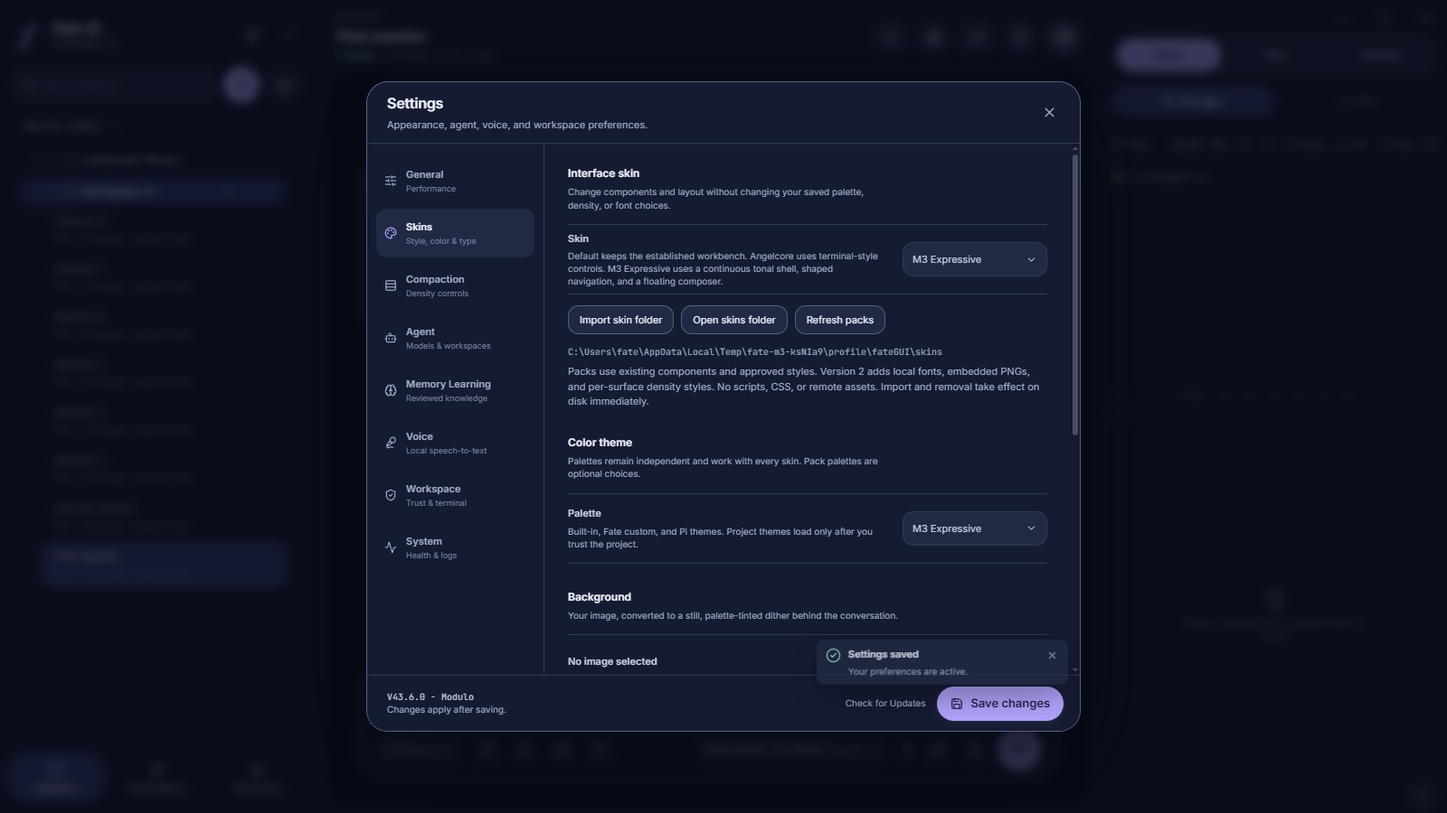
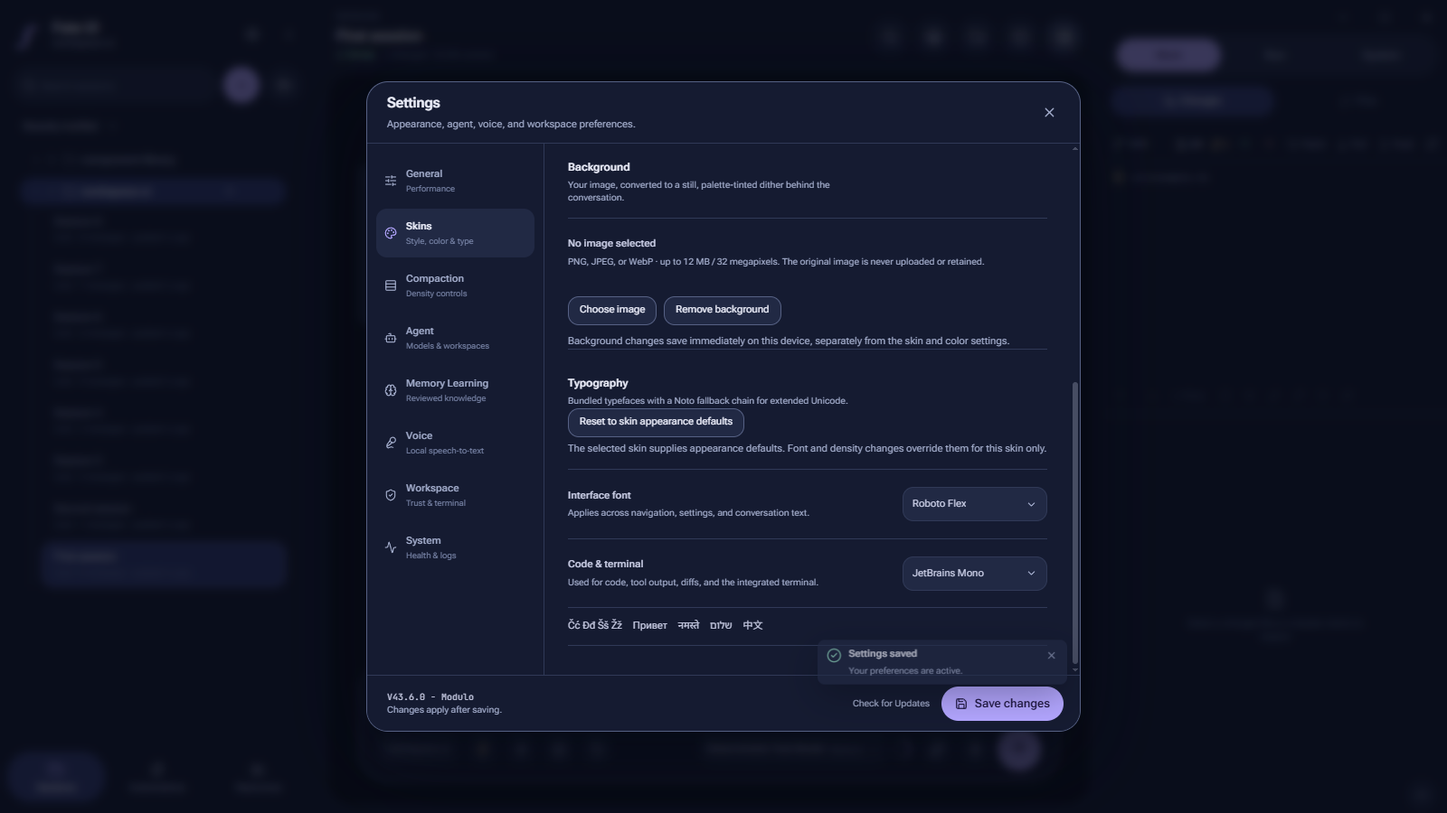
Bundle Roboto Flex and verify skin font imports

diff --git a/tests/e2e/angelcore-complete.spec.ts b/tests/e2e/angelcore-complete.spec.ts
@@ -6,6 +6,7 @@ import { createServer } from 'node:http';
 import { tmpdir } from 'node:os';
 import path from 'node:path';
 import { appSettingsSchema } from '../../src/shared/contracts/ipc';
+import { expectLoadedFontFace } from './fontAssertions';
 
 const exec = promisify(execFile);
 async function fixture() {
@@ -264,6 +265,8 @@ test('v2 pack fonts, embedded image, density styles and user font overrides surv
   test.setTimeout(120_000);
   const data = await fixture();
   const pack = path.join(data.directory, 'font-pack'); await mkdir(pack);
+  const builtinPack = path.join(data.directory, 'builtin-font-pack'); await mkdir(builtinPack);
+  await writeFile(path.join(builtinPack, 'skin.json'), JSON.stringify({ schemaVersion: 2, id: 'builtin-flex', name: 'Builtin Flex', description: 'A built-in font reference without embedded font files.', version: '1.0.0', base: 'default', appearance: { interfaceFont: 'roboto-flex' } }));
   await cp(path.resolve('node_modules/@fontsource-variable/jetbrains-mono/files/jetbrains-mono-latin-wght-normal.woff2'), path.join(pack, 'mono.woff2'));
   const image = await readFile(path.resolve('examples/skins/ashen-terminal/background.png'));
   await writeFile(path.join(pack, 'skin.json'), JSON.stringify({ schemaVersion: 2, id: 'font-studio', name: 'Font Studio', description: 'An embedded-asset fixture', version: '2.0.0', base: 'dreamcore', fonts: [{ id: 'mono', name: 'Studio Mono', file: 'mono.woff2', monospace: true }], appearance: { interfaceFont: 'local:mono', codeFont: 'local:mono', compactMode: true, compactSessions: true }, styles: { normal: { music: { controlRadius: 4 }, tooltips: { surfaceRadius: 4 }, browser: { controlRadius: 6, fontSize: 14 } }, compact: { music: { controlRadius: 1 }, browser: { controlRadius: 2 } }, compactSessions: { sidebar: { controlRadius: 3, rowHeight: 28 } } }, background: { data: image.toString('base64'), opacity: 0.1 } }));
@@ -273,11 +276,18 @@ test('v2 pack fonts, embedded image, density styles and user font overrides surv
     await app.evaluate(({ dialog }, selected) => { dialog.showOpenDialog = async () => ({ canceled: false, filePaths: [selected] }); }, pack);
     let dialog = await settings(page);
     await expect(dialog.getByRole('combobox', { name: 'Interface font' })).toContainText('JetBrains Mono');
+    await expectLoadedFontFace(page, 'JetBrains Mono Variable');
+    await app.evaluate(({ dialog }, selected) => { dialog.showOpenDialog = async () => ({ canceled: false, filePaths: [selected] }); }, builtinPack);
+    await dialog.getByRole('button', { name: 'Import skin folder' }).click();
+    await dialog.getByRole('button', { name: 'Preview Builtin Flex' }).click();
+    await expect(dialog.getByRole('combobox', { name: 'Interface font' })).toContainText('Roboto Flex');
+    await expectLoadedFontFace(page, 'Roboto Flex Variable');
+    await app.evaluate(({ dialog }, selected) => { dialog.showOpenDialog = async () => ({ canceled: false, filePaths: [selected] }); }, pack);
     await dialog.getByRole('button', { name: 'Import skin folder' }).click();
     await dialog.getByRole('button', { name: 'Preview Font Studio' }).click();
     await expect(dialog.getByRole('combobox', { name: 'Interface font' })).toContainText('Studio Mono');
     await expect(dialog.getByRole('combobox', { name: 'Code and terminal font' })).toContainText('Studio Mono');
-    await expect.poll(() => page.evaluate(() => [...document.fonts].some((font) => font.family.includes('FateSkin_skin_font_font_studio_mono') && font.status === 'loaded'))).toBe(true);
+    await expectLoadedFontFace(page, 'FateSkin_skin_font_font_studio_mono');
     await expect(page.locator('.workspace-backdrop')).toHaveAttribute('data-source', 'skin-pack');
     await expect.poll(() => page.evaluate(() => document.documentElement.dataset.compactMode)).toBe('true');
     await expect.poll(() => page.evaluate(() => document.documentElement.style.getPropertyValue('--skin-music-control-radius'))).toBe('1px');
@@ -289,6 +299,12 @@ test('v2 pack fonts, embedded image, density styles and user font overrides surv
     await expect(dialog.getByRole('combobox', { name: 'Interface font' })).toContainText('Poppins');
     await expect.poll(() => page.locator('.composer textarea').evaluate((element) => getComputedStyle(element).fontFamily)).toContain('Poppins');
     expect(await page.evaluate(() => document.documentElement.style.getPropertyValue('--font-code'))).toContain('FateSkin_skin_font_font_studio_mono');
+    await dialog.getByRole('combobox', { name: 'Interface font' }).click();
+    await page.getByRole('option', { name: /^Studio Mono/u }).click();
+    await expectLoadedFontFace(page, 'FateSkin_skin_font_font_studio_mono');
+    await expect(dialog.getByRole('combobox', { name: 'Interface font' })).toContainText('Studio Mono');
+    await dialog.getByRole('combobox', { name: 'Interface font' }).click();
+    await page.getByRole('option', { name: /^Poppins/u }).click();
     await dialog.getByRole('button', { name: 'Save changes' }).click();
     await expect(dialog.getByRole('status')).toContainText('Settings saved');
     await dialog.screenshot({ path: 'test-results/skin-fonts-v2.png', animations: 'disabled' });
@@ -301,9 +317,12 @@ test('v2 pack fonts, embedded image, density styles and user font overrides surv
     dialog = await settings(restored);
     await expect(dialog.getByRole('combobox', { name: 'Interface font' })).toContainText('Poppins');
     await expect(dialog.getByRole('combobox', { name: 'Code and terminal font' })).toContainText('Studio Mono');
+    await expectLoadedFontFace(restored, 'FateSkin_skin_font_font_studio_mono');
+    await expectLoadedFontFace(restored, 'Poppins');
     await expect.poll(() => dialog.evaluate((element) => getComputedStyle(element).fontFamily)).toContain('Poppins');
     await dialog.getByRole('button', { name: 'Reset to skin appearance defaults' }).click();
     await expect(dialog.getByRole('combobox', { name: 'Interface font' })).toContainText('Studio Mono');
+    await expectLoadedFontFace(restored, 'FateSkin_skin_font_font_studio_mono');
     await dialog.getByRole('button', { name: 'Save changes' }).click();
     await dialog.getByRole('button', { name: 'Close settings' }).click();
     await restored.getByRole('button', { name: 'Collapse sidebar' }).hover();

diff --git a/tests/e2e/m3-expressive.spec.ts b/tests/e2e/m3-expressive.spec.ts
@@ -4,6 +4,7 @@ import { execFile } from 'node:child_process';
 import { promisify } from 'node:util';
 import { appSettingsSchema } from '../../src/shared/contracts/ipc';
 import { builtInThemes, themeDefinitionSchema, type ThemeDefinition } from '../../src/shared/themes';
+import { expectLoadedFontFace } from './fontAssertions';
 
 const exec = promisify(execFile);
 const midnight = builtInThemes.find((theme) => theme.id === 'midnight')!;
@@ -28,7 +29,7 @@ async function paletteCompliance(page: Page, theme: ThemeDefinition) {
       font: root.dataset.interfaceFont, codeFont: root.dataset.codeFont, compact: root.dataset.compactMode, reduceMotion: root.dataset.reduceMotion,
       composerRadius: style('.composer').borderRadius,
     };
-  })).toEqual({ skin: 'm3-expressive', theme: theme.id, tone: theme.tone, panel: rgb(theme.colors.panel), canvas: rgb(theme.colors.canvas), primary: rgb(theme.colors.accent), onPrimary: rgb(theme.colors.onAccent), send: rgb(theme.colors.accent), onSend: rgb(theme.colors.onAccent), text: rgb(theme.colors.text), font: 'inter', codeFont: 'jetbrains-mono', compact: 'false', reduceMotion: 'false', composerRadius: '36px' });
+  })).toEqual({ skin: 'm3-expressive', theme: theme.id, tone: theme.tone, panel: rgb(theme.colors.panel), canvas: rgb(theme.colors.canvas), primary: rgb(theme.colors.accent), onPrimary: rgb(theme.colors.onAccent), send: rgb(theme.colors.accent), onSend: rgb(theme.colors.onAccent), text: rgb(theme.colors.text), font: 'roboto-flex', codeFont: 'jetbrains-mono', compact: 'false', reduceMotion: 'false', composerRadius: '36px' });
 }
 import { tmpdir } from 'node:os';
 import path from 'node:path';
@@ -161,6 +162,10 @@ test('M3 Expressive independent preview, save, compact layout and restart', asyn
   try {
     app = await launch();
     const page = await app.firstWindow();
+    const remoteFontRequests: string[] = [];
+    page.on('request', (request) => {
+      if (request.resourceType() === 'font' && /^https?:/u.test(request.url())) remoteFontRequests.push(request.url());
+    });
     await expect(page.getByLabel('Window controls')).toHaveAttribute('data-bridge-status', 'ready');
     const chromeRadius = await page.locator('.window-control').first().evaluate((element) => getComputedStyle(element).borderRadius);
     await app.evaluate(({ BrowserWindow }) => BrowserWindow.getAllWindows()[0]!.setSize(1600, 900));
@@ -187,6 +192,7 @@ test('M3 Expressive independent preview, save, compact layout and restart', asyn
     await page.getByRole('option', { name: /M3 Expressive/u }).click();
     await expect(palette).toHaveText(originalTheme);
     await expect(page.locator('html')).toHaveAttribute('data-skin', 'm3-expressive');
+    await expectLoadedFontFace(page, 'Roboto Flex Variable');
     await settings.getByRole('button', { name: 'Close settings' }).click();
     await expect(page.locator('html')).toHaveAttribute('data-skin', 'default');
     await expect(page.getByLabel('Message Pi')).toHaveValue('Draft retained across appearance changes');
@@ -196,6 +202,19 @@ test('M3 Expressive independent preview, save, compact layout and restart', asyn
     await page.getByRole('option', { name: /M3 Expressive/u }).click();
     await palette.click();
     await page.getByRole('option', { name: /M3 Expressive/u }).click();
+    const interfaceFont = settings.getByRole('combobox', { name: 'Interface font' });
+    await expect(interfaceFont).toContainText('Roboto Flex');
+    await expectLoadedFontFace(page, 'Roboto Flex Variable');
+    await expect(page.locator('.composer textarea')).toHaveCSS('font-optical-sizing', 'auto');
+    await expectLoadedFontFace(page, 'JetBrains Mono Variable');
+    await interfaceFont.click();
+    await page.getByRole('option', { name: /^Inter/u }).click();
+    await expectLoadedFontFace(page, 'Inter Variable');
+    await expect(page.locator('html')).toHaveAttribute('data-interface-font', 'inter');
+    await expect(page.locator('html')).toHaveAttribute('data-code-font', 'jetbrains-mono');
+    await settings.getByRole('button', { name: 'Reset to skin appearance defaults' }).click();
+    await expect(interfaceFont).toContainText('Roboto Flex');
+    await expectLoadedFontFace(page, 'Roboto Flex Variable');
     await settings.getByRole('button', { name: 'Save changes' }).click();
     await page.screenshot({ path: 'screenshots/m3-expressive/settings.png' });
     await settings.getByRole('button', { name: 'Close settings' }).click();
@@ -323,6 +342,9 @@ test('M3 Expressive independent preview, save, compact layout and restart', asyn
     await expect(restarted.locator('html')).toHaveAttribute('data-skin', 'm3-expressive');
     await expect(restarted.locator('html')).toHaveAttribute('data-theme', 'm3-expressive');
     await expect(restarted.locator('html')).toHaveAttribute('data-compact-mode', 'true');
+    await expect(restarted.locator('html')).toHaveAttribute('data-interface-font', 'roboto-flex');
+    await expectLoadedFontFace(restarted, 'Roboto Flex Variable');
+    expect(remoteFontRequests).toEqual([]);
   } finally {
     await app?.close();
     await rm(directory, { recursive: true, force: true });

diff --git a/src/shared/skinAppearance.test.ts b/src/shared/skinAppearance.test.ts
@@ -7,11 +7,11 @@ const baseline = () => appSettingsSchema.parse({ appearance: 'dark', defaultMode
 describe('effective skin appearance', () => {
   it('round-trips M3 font and density overrides without changing palette or other skins', () => {
     const settings = { ...baseline(), skinId: 'm3-expressive' as const, themeId: 'daylight' };
-    expect(resolveSkinAppearance(settings, builtInSkins)).toMatchObject({ interfaceFont: 'inter', themeId: 'daylight' });
+    expect(resolveSkinAppearance(settings, builtInSkins)).toMatchObject({ interfaceFont: 'roboto-flex', themeId: 'daylight' });
     const saved = appSettingsSchema.parse(overrideSkinAppearance(settings, { interfaceFont: 'noto-sans', compactMode: true, reduceMotion: true }));
     expect(resolveSkinAppearance(saved, builtInSkins)).toMatchObject({ interfaceFont: 'noto-sans', compactMode: true, reduceMotion: true, themeId: 'daylight', codeFont: settings.codeFont });
     expect(resolveSkinAppearance({ ...saved, skinId: 'dreamcore' }, builtInSkins)).toMatchObject({ interfaceFont: 'jetbrains-mono', compactMode: false });
-    expect(resolveSkinAppearance(resetSkinAppearance(saved), builtInSkins).interfaceFont).toBe('inter');
+    expect(resolveSkinAppearance(resetSkinAppearance(saved), builtInSkins).interfaceFont).toBe('roboto-flex');
   });
   it('shows Angelcore defaults without losing base preferences and honors explicit per-skin overrides', () => {
     const settings = baseline();
@@ -21,6 +21,11 @@ describe('effective skin appearance', () => {
     expect(resolveSkinAppearance(overridden, builtInSkins)).toMatchObject({ interfaceFont: 'inter', compactMode: true });
     expect(resolveSkinAppearance({ ...overridden, skinId: 'default' }, builtInSkins).interfaceFont).toBe('poppins');
     expect(resolveSkinAppearance(resetSkinAppearance(overridden), builtInSkins).interfaceFont).toBe('jetbrains-mono');
+  });
+  it('accepts Roboto Flex as a v2 pack appearance default without an embedded font', () => {
+    const pack = skinPackManifestSchema.parse({ schemaVersion: 2, id: 'flex-pack', name: 'Flex Pack', version: '1.0.0', description: 'Bundled font reference.', base: 'default', appearance: { interfaceFont: 'roboto-flex' } });
+    expect(pack.appearance?.interfaceFont).toBe('roboto-flex');
+    expect(pack.fonts).toBeUndefined();
   });
   it('inherits component-base defaults and falls back when an imported font disappears', () => {
     const pack: SkinDefinition = { id: 'pack:font-pack', name: 'Font pack', description: 'Fixture', base: 'dreamcore', origin: 'pack', appearance: { codeFont: 'skin-font:font-pack:mono' } };

diff --git a/src/renderer/fonts.ts b/src/renderer/fonts.ts
@@ -10,6 +10,7 @@ const interfaceFamilies: Record<BuiltInInterfaceFont, string> = {
   'noto-sans': notoSansFallback,
   system: `ui-sans-serif, system-ui, -apple-system, BlinkMacSystemFont, "Segoe UI", ${notoSansFallback}`,
   inter: `"Inter Variable", ${notoSansFallback}`,
+  'roboto-flex': `"Roboto Flex Variable", "Roboto", ${notoSansFallback}`,
   poppins: `"Poppins", ${notoSansFallback}`,
   montserrat: `"Montserrat Variable", ${notoSansFallback}`,
   'jetbrains-mono': `"JetBrains Mono Variable", ${notoCodeFallback}`,
@@ -23,6 +24,8 @@ const codeFamilies: Record<BuiltInCodeFont, string> = {
 
 const optionalInterfaceFontLoaders: Partial<Record<BuiltInInterfaceFont, () => Promise<unknown>>> = {
   inter: () => import('@fontsource-variable/inter/wght.css'),
+  // Weight + optical-size axes, normal style; no remote font requests.
+  'roboto-flex': () => import('@fontsource-variable/roboto-flex/opsz.css'),
   montserrat: () => import('@fontsource-variable/montserrat/wght.css'),
   poppins: () => import('./styles/poppins.css'),
 };
@@ -45,6 +48,7 @@ export const interfaceFontOptions: ReadonlyArray<{ value: InterfaceFont; label: 
   { value: 'noto-sans', label: 'Noto Sans', detail: 'Global default · extended Unicode' },
   { value: 'system', label: 'System UI', detail: 'Native platform font · Noto fallback' },
   { value: 'inter', label: 'Inter', detail: 'Neutral and highly legible' },
+  { value: 'roboto-flex', label: 'Roboto Flex', detail: 'Material expressive option · variable optical sizing' },
   { value: 'poppins', label: 'Poppins', detail: 'Geometric and friendly' },
   { value: 'montserrat', label: 'Montserrat', detail: 'Structured and distinctive' },
   { value: 'jetbrains-mono', label: 'JetBrains Mono', detail: 'Technical monospace interface' },

diff --git a/src/shared/skins.ts b/src/shared/skins.ts
@@ -87,7 +87,7 @@ export const skinExportResultSchema = z.object({ path: z.string().max(4096) }).s
 export const builtInSkins: readonly SkinDefinition[] = [
   { id: 'default', base: 'default', origin: 'built-in', name: 'Default', description: 'The focused, continuous Fate UI workbench.' },
   { id: 'dreamcore', base: 'dreamcore', origin: 'built-in', name: 'Angelcore', description: 'Terminal-style controls, command input, and an open transcript.', appearance: { interfaceFont: 'jetbrains-mono' }, styles: { normal: { sidebar: { padding: 14 }, settings: { padding: 18 }, music: { padding: 12 }, tooltips: { padding: 8 } }, compact: { sidebar: { padding: 8 }, settings: { padding: 12 }, music: { padding: 8 } } } },
-  { id: 'm3-expressive', base: 'm3-expressive', origin: 'built-in', name: 'M3 Expressive', description: 'A continuous tonal workspace, expressive shapes, and focused controls.', appearance: { interfaceFont: 'inter' } },
+  { id: 'm3-expressive', base: 'm3-expressive', origin: 'built-in', name: 'M3 Expressive', description: 'A continuous tonal workspace, expressive shapes, and focused controls.', appearance: { interfaceFont: 'roboto-flex' } },
 ];
 export function builtInSkinName(id: BuiltInSkinId): string { return builtInSkins.find((skin) => skin.id === id)!.name; }
 export function resolveSkinId(value: unknown): SkinId { return skinIdSchema.parse(value); }

diff --git a/src/renderer/fonts.test.ts b/src/renderer/fonts.test.ts
@@ -1,5 +1,5 @@
 import { afterEach, beforeEach, describe, expect, it, vi } from 'vitest';
-import { applyFonts } from './fonts';
+import { applyFonts, interfaceFontOptions } from './fonts';
 
 beforeEach(() => {
   delete document.documentElement.dataset.interfaceFont;
@@ -13,6 +13,13 @@ afterEach(() => {
 });
 
 describe('applyFonts', () => {
+  it('offers Roboto Flex with local Roboto/Noto fallbacks while retaining the code font', () => {
+    expect(interfaceFontOptions).toContainEqual(expect.objectContaining({ value: 'roboto-flex', label: 'Roboto Flex' }));
+    applyFonts('roboto-flex', 'jetbrains-mono');
+    expect(document.documentElement.dataset.interfaceFont).toBe('roboto-flex');
+    expect(document.documentElement.style.getPropertyValue('--font-interface')).toMatch(/^"Roboto Flex Variable", "Roboto", "Noto Sans Variable"/u);
+    expect(document.documentElement.dataset.codeFont).toBe('jetbrains-mono');
+  });
   it('avoids repeat style writes and font-change events', () => {
     const styleWrite = vi.spyOn(CSSStyleDeclaration.prototype, 'setProperty');
     const listener = vi.fn();

diff --git a/src/shared/skinFonts.ts b/src/shared/skinFonts.ts
@@ -1,7 +1,7 @@
 import { z } from 'zod';
 
 export const MAX_SKIN_FONT_BYTES = 256 * 1024;
-export const builtInInterfaceFontSchema = z.enum(['noto-sans', 'system', 'inter', 'poppins', 'montserrat', 'jetbrains-mono']);
+export const builtInInterfaceFontSchema = z.enum(['noto-sans', 'system', 'inter', 'roboto-flex', 'poppins', 'montserrat', 'jetbrains-mono']);
 export const builtInCodeFontSchema = z.enum(['jetbrains-mono', 'noto-sans-mono', 'system-mono']);
 export type BuiltInInterfaceFont = z.infer<typeof builtInInterfaceFontSchema>;
 export type BuiltInCodeFont = z.infer<typeof builtInCodeFontSchema>;

diff --git a/tests/e2e/fontAssertions.ts b/tests/e2e/fontAssertions.ts
@@ -1,0 +1,9 @@
+import { expect, type Page } from '@playwright/test';
+
+/** A CSS fallback stack or fonts.check() for an unknown family is not load evidence. */
+export async function expectLoadedFontFace(page: Page, family: string): Promise<void> {
+  await expect.poll(() => page.evaluate(async (expected) => {
+    await document.fonts.ready;
+    return [...document.fonts].some((face) => face.family.replace(/["']/gu, '') === expected && face.status === 'loaded');
+  }, family)).toBe(true);
+}

diff --git a/docs/m3-expressive.md b/docs/m3-expressive.md
@@ -4,7 +4,7 @@
 
 In **Settings → Skins**, select **M3 Expressive** under **Skin**. For the reference's navy/indigo and lavender colors, separately select **M3 Expressive** under **Palette**. Save changes to keep them; closing without saving restores the previous selection. Neither selector changes the other.
 
-Inter is the skin's bundled interface-font default. Code font, density, motion preferences, and your per-skin font overrides remain independent. Pane widths remain user-resizable and are not reset when changing skin. Personal dithered backgrounds remain optional, visible only inside the conversation inset.
+Roboto Flex is the skin's bundled interface-font default. Code font, density, motion preferences, and your per-skin font overrides remain independent. Pane widths remain user-resizable and are not reset when changing skin. Personal dithered backgrounds remain optional, visible only inside the conversation inset.
 
 ## Design decisions
 
@@ -17,11 +17,19 @@ Inter is the skin's bundled interface-font default. Code font, density, motion p
 - The conversation fill sits below the existing dither layer; the content above remains transparent. There is no skin-specific image or external resource request.
 - Native window buttons are not Material controls. Their platform order, shape, drag exclusions, and reserved areas are unchanged. The native window remains opaque and resizable. This is the user's explicitly accepted **joined-pane fallback**, not native transparency or a CSS transparency claim. Electron 43.6.0 documents that transparent windows are not reliably resizable and Windows system-menu/double-click maximize is unavailable; `transparent` is a construction option, not a runtime appearance toggle. Introducing those constraints globally would affect other skins. No native window options were changed.
 
+## Bundled typography
+
+Material's baseline default remains Roboto; **Roboto Flex** is its variable expressive option, not a Google brand-font requirement. Fate bundles unmodified `@fontsource-variable/roboto-flex` 5.3.0 locally under SIL OFL 1.1. The normal `opsz.css` entry retains variable weight (100–1000) and optical sizing (8–144); Chromium's automatic optical sizing follows the actual text size. No stylistic axis animation or new layout treatment is introduced.
+
+The fallback stack is Roboto Flex → locally available Roboto → the already bundled Noto families/system sans. No CDN or remote font request is used. The picker exposes **Roboto Flex** for every skin; M3 uses it as a default only, so a saved per-skin font override still wins. Code font is separate. Angelcore retains its already bundled JetBrains Mono. Copyright attribution and the full OFL accompany releases in [`FONT_LICENSES.md`](../FONT_LICENSES.md).
+
+Version-2 pack creators can refer to `roboto-flex` as a built-in appearance default, or supply their own declared WOFF/WOFF2 with `local:` references. No new font-import UI or relaxed security limits are needed; see [skin pack fonts](skins.md#bundled-fonts-and-defaults). Electron tests verify actual loaded `FontFace` entries—not just CSS stacks—for Roboto Flex, Angelcore's JetBrains Mono, and a namespaced imported font, including picker selection, default reset, and restart.
+
 ## Boundaries
 
 Both skin and palette use ID `m3-expressive`, in separate registries. Default and Angelcore keep their existing styles and component implementations. Version 1/2 pack manifests still allow only `default` and `dreamcore` component bases; M3 does not expand executable or declarative pack capabilities. Three built-ins do not consume any of the sixteen pack slots. Appearance override validation and prepaint storage recognize the new built-in.
 
-No new dependency, font download, arbitrary CSS import, script execution, or privileged renderer API was introduced. Existing focus treatment, reduced-motion settings, and OS reduced-motion handling remain in effect; this skin adds no animations.
+The only added production dependency is the locally bundled Roboto Flex font package. No runtime font download, arbitrary CSS import, script execution, or privileged renderer API was introduced. Existing focus treatment, reduced-motion settings, and OS reduced-motion handling remain in effect; this skin adds no animations.
 
 ## Theme compliance
 
@@ -50,8 +58,8 @@ Gallery under [`screenshots/m3-expressive/`](../screenshots/m3-expressive/):
 
 Verified in the isolated implementation checkout on Windows:
 
-- `pnpm verify`: passed typecheck, 194 unit files (2,049 passed / 3 skipped), production and E2E builds, and all 18 Electron journeys.
-- After the final joined-shell fallback (retaining agent icon slots and compact search), `pnpm typecheck`, `pnpm build:e2e` (including the renderer build), and `pnpm exec playwright test tests/e2e/m3-expressive.spec.ts`: passed (1 journey).
+- `pnpm verify` after Roboto Flex integration: passed typecheck, 194 unit files (2,051 passed / 3 skipped), production and E2E builds, and all 18 Electron journeys.
+- Font-focused checks also passed: 3 unit files / 10 tests and the M3/Angelcore Electron journeys, including a real built-in-font pack import and custom WOFF2 picker/restart flow. The M3 journey confirms actual loaded Roboto Flex and JetBrains Mono faces, automatic optical sizing, Inter override/default reset, and zero HTTP(S) font requests. Gallery images were refreshed after the bundled Roboto Flex face loaded.
 - `git diff --check`: passed. The build emits the existing large-chunk advisory.
 
 Native screenshots are captured on Windows only. Parameterized WindowChrome unit tests cover Windows/macOS/Linux branch behavior; they are not native macOS/Linux visual verification.
@@ -63,7 +71,8 @@ Read alongside the supplied user reference, not in place of it:
 - [Building with M3 Expressive](https://m3.material.io/building-with-m3-expressive): expressive emphasis and sparing use of hero moments.
 - [Shape corner-radius scale](https://m3.material.io/styles/shape/corner-radius-scale): expanded expressive shape scale and optical nesting.
 - [Color roles](https://m3.material.io/styles/color/roles): tonal surface hierarchy and paired content colors.
-- [Typography tokens](https://m3.material.io/styles/typography/type-scale-tokens): deliberate emphasized labels, plain readable body text.
+- [Material typography](https://m3.material.io/styles/typography) and [typography tokens](https://m3.material.io/styles/typography/type-scale-tokens): baseline Roboto and variable Roboto Flex, deliberate emphasized labels, plain readable body text.
+- [Roboto Flex metadata](https://raw.githubusercontent.com/google/fonts/main/ofl/robotoflex/METADATA.pb), [OFL license](https://raw.githubusercontent.com/google/fonts/main/ofl/robotoflex/OFL.txt), and [Fontsource installation](https://fontsource.org/fonts/roboto-flex/install): family identity, axes, attribution, and offline distribution.
 - [Button groups](https://m3.material.io/components/button-groups/overview): shaped, connected selection groups. Existing Fate navigation semantics are retained.
 - [State layers](https://m3.material.io/foundations/interaction/states/state-layers): selected and transient interaction states are distinct.
 - [Expressive motion](https://m3.material.io/m3-expressive-motion-theming): expressive motion is not an obligation to bounce an operational workbench.

diff --git a/docs/skins.md b/docs/skins.md
@@ -23,7 +23,7 @@ Import, export, and removal act on disk immediately. Preview/Save/Cancel affect 
 
 ## Appearance defaults and your overrides
 
-Angelcore defaults its interface font to **JetBrains Mono**; M3 Expressive defaults to the bundled **Inter**. Neither changes your code font, palette, or density. The Interface font picker shows the effective font, not the unused base preference. Choosing another interface font really changes navigation, settings, conversation text, and the composer; Code & terminal remains a separate choice for literal code, tool output, diffs, and xterm.
+Angelcore defaults its interface font to **JetBrains Mono**; M3 Expressive defaults to the bundled **Roboto Flex**. Neither changes your code font, palette, or density. The Interface font picker shows the effective font, not the unused base preference. Choosing another interface font really changes navigation, settings, conversation text, and the composer; Code & terminal remains a separate choice for literal code, tool output, diffs, and xterm.
 
 Appearance resolution is: saved base preferences → component-base defaults → pack defaults → your overrides for that skin. Font, density, and motion overrides are stored per skin in `skinAppearanceOverrides`. Switching skins does not destroy another skin's choices. **Reset to skin appearance defaults** clears the current skin's overrides; Save and Cancel still apply. Integrations reading raw settings should use `resolveSkinAppearance` from `src/shared/skinAppearance.ts` to obtain the effective values.
 
@@ -101,7 +101,7 @@ Version 1 packs continue to work. Use `"schemaVersion": 2` for the following opt
 
 A pack can contain two WOFF/WOFF2 files, up to **256 KB each**, with a maximum declared expanded size of **8 MB**. Keep filenames to lowercase letters, digits, and hyphens followed by `.woff` or `.woff2`; IDs use the same characters without the extension. Include the fonts' redistribution licenses in `LICENSE`. Variable fonts can cover multiple weights in one file.
 
-All installed pack fonts appear in Interface font; those marked `monospace` also appear in Code & terminal. Internally they are namespaced as `skin-font:<pack-id>:<font-id>`. Defaults refer to a bundled font with `local:<font-id>` or use a built-in font ID. Fonts load locally through the browser's font parser, are cached for reuse, and fall back with a visible warning if loading fails. Removing a pack removes references to its fonts without changing operational settings.
+All installed pack fonts appear in Interface font; those marked `monospace` also appear in Code & terminal. Internally they are namespaced as `skin-font:<pack-id>:<font-id>`. Defaults refer to a pack-bundled font with `local:<font-id>` or use a built-in font ID. For example, `"appearance": { "interfaceFont": "roboto-flex" }` uses the app's offline Roboto Flex without embedding a font file. Angelcore's `jetbrains-mono` is also bundled. Creators supplying their own fonts still declare `fonts` plus `local:` references as above; the same size, type, namespace, and licensing rules apply. Fonts load locally through the browser's font parser, are cached for reuse, and fall back with a visible warning if loading fails. Removing a pack removes references to its fonts without changing operational settings.
 
 The only supported `appearance` keys are `interfaceFont`, `codeFont`, `compactMode`, `compactSessions`, `reduceMotion`, `performanceMode`, and `holyShitMode`. Unknown keys are rejected.
 

diff --git a/THIRD_PARTY_NOTICES.md b/THIRD_PARTY_NOTICES.md
@@ -2,6 +2,10 @@
 
 Fate UI includes third-party software. This file records license notices that must accompany the distribution. Other bundled packages retain their own license files and package metadata.
 
+## Bundled fonts
+
+Fate UI bundles local Fontsource assets, including Roboto Flex (`@fontsource-variable/roboto-flex` 5.3.0) for the M3 Expressive skin and JetBrains Mono for Angelcore and code. These fonts are distributed under SIL OFL 1.1. Copyright notices and the complete license are included in [FONT_LICENSES.md](FONT_LICENSES.md), which accompanies packaged distributions. No Google brand font or remote font service is required.
+
 ## Pi coding agent
 
 Fate UI includes and interoperates with `@earendil-works/pi-coding-agent`, from the [Pi repository](https://github.com/earendil-works/pi). Pi is distributed under the following MIT License:

diff --git a/FONT_LICENSES.md b/FONT_LICENSES.md
@@ -2,6 +2,7 @@
 
 Fate UI bundles the following unmodified fonts through Fontsource 5.3.0. All are distributed under the SIL Open Font License 1.1 reproduced below.
 
+- Roboto Flex — Copyright 2017 The Roboto Flex Project Authors (https://github.com/googlefonts/roboto-flex)
 - Inter — Copyright 2016 The Inter Project Authors (https://github.com/rsms/inter)
 - JetBrains Mono — Copyright 2020 The JetBrains Mono Project Authors (https://github.com/JetBrains/JetBrainsMono)
 - Montserrat — Copyright 2011 The Montserrat Project Authors (https://github.com/JulietaUla/Montserrat)
